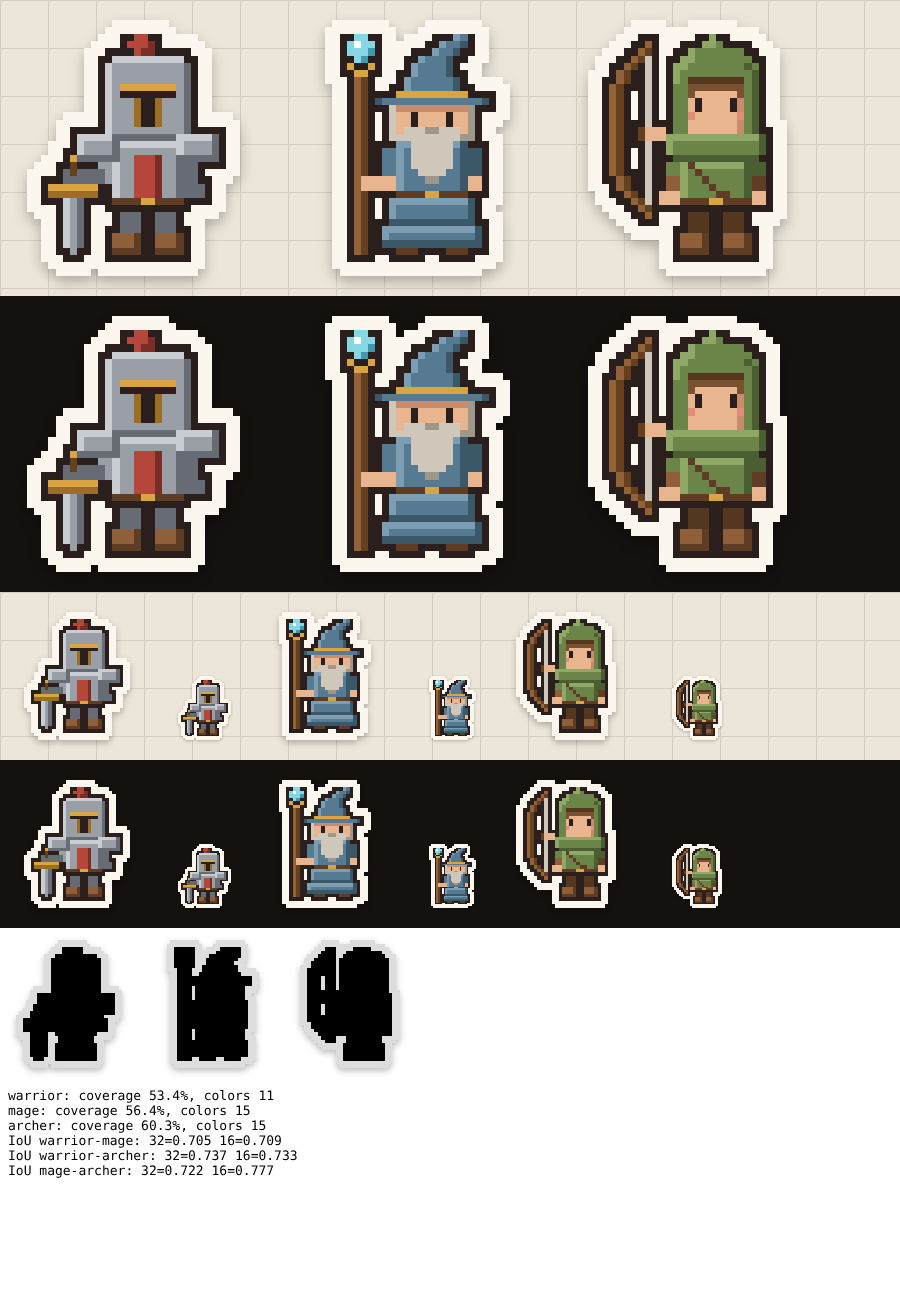
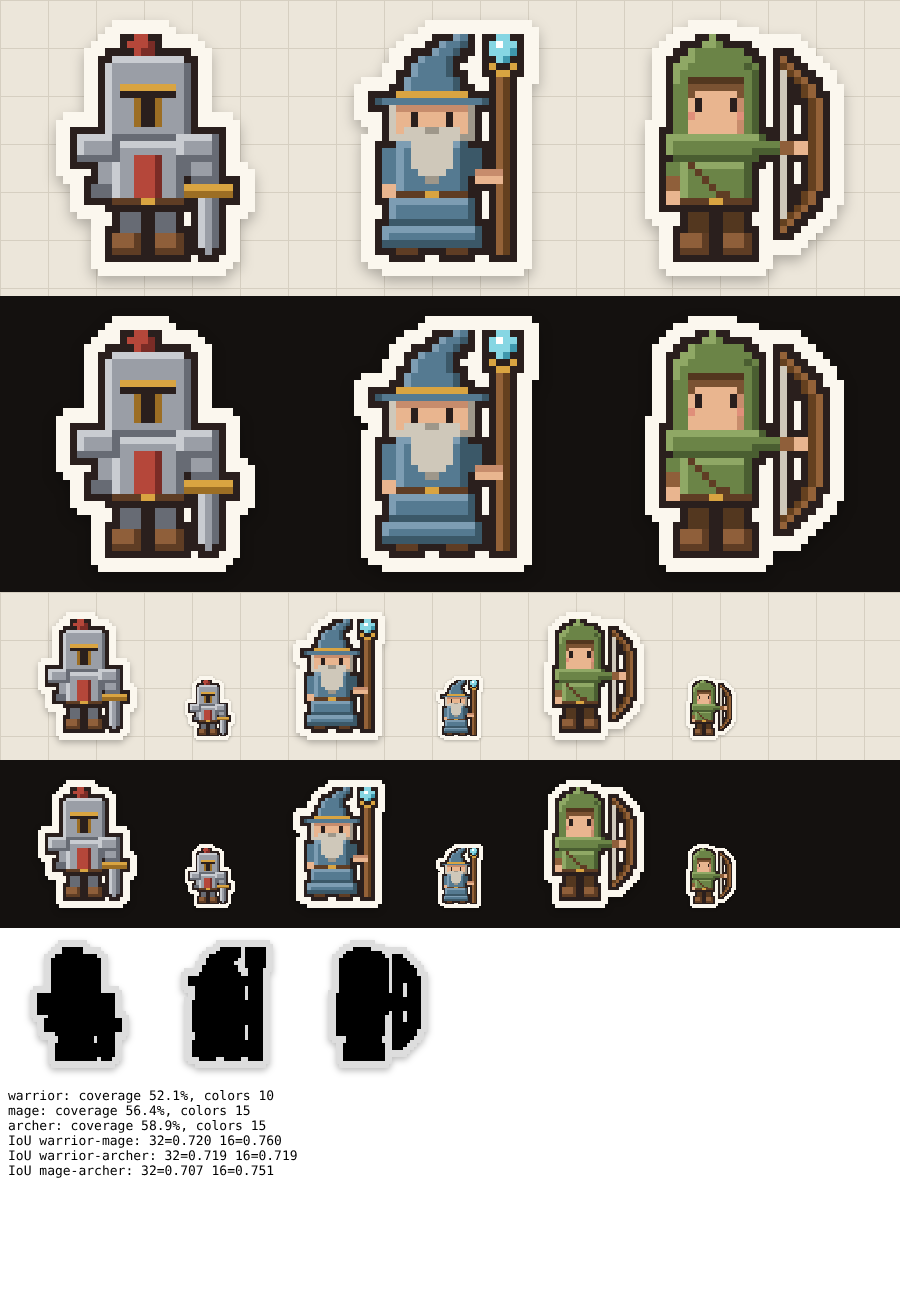
docs(plans): sticker prototypes posed like reference (item in right hand)
Claude-Session: https://claude.ai/code/session_01KqL6SRAE6ckfnfXieFajdG

diff --git a/plans/20261017-1617-github-derived-character-avatar/phase-04-avatar-sprite-system.md b/plans/20261017-1617-github-derived-character-avatar/phase-04-avatar-sprite-system.md
@@ -18,10 +18,10 @@
 - `gridToPathData(grid, char)` is size-agnostic → reuse as is.
 
 ## Requirements
-- **Art style (user-approved direction 2026-10-17, see [sticker prototypes](reports/assets/03-sticker-style-prototypes.png), [source](reports/assets/03-sticker-style-prototypes.ts.txt))**: chibi "die-cut sticker" pixel art. Big head (~40% height), dot eyes + blush, 1px near-black outline (8-neighbour, chunky), muted earthy palette with 3-tone ramps (highlight top/left, shade bottom/right), cream sticker ring 2px with rounded corners added by the composer on a padded viewBox (`-2 -2 36 36`), soft CSS drop-shadow. Original art only (reference image = style cue, not traced, not committed). Class reads: Warrior = T-visor great helm + plume, broad pauldrons, red tabard, sword point-down; Mage = bent pointed hat + wide brim, grey beard, robe to floor, crystal staff; Archer = pointed hood, capelet, strap, tall recurve bow. Prototype IoU: w-m .705/.709, w-a .737/.733, m-a .722/.777 (32/16), colors 11-15.
+- **Art style (user-approved direction 2026-10-17, see [sticker prototypes](reports/assets/03-sticker-style-prototypes.png), [source](reports/assets/03-sticker-style-prototypes.ts.txt))**: chibi "die-cut sticker" pixel art. Big head (~40% height), dot eyes + blush, 1px near-black outline (8-neighbour, chunky), muted earthy palette with 3-tone ramps (highlight top/left, shade bottom/right), cream sticker ring 2px with rounded corners added by the composer on a padded viewBox (`-2 -2 36 36`), soft CSS drop-shadow. Original art only (reference image = style cue, not traced, not committed). Pose (user ref): front-facing, held item in the hand on the **viewer's right**, close to the body; free hand at the side. Class reads: Warrior = T-visor great helm + plume, broad pauldrons, red tabard, sword point-down in right fist; Mage = bent pointed hat + wide brim, grey beard, robe to floor, crystal staff beside the robe; Archer = pointed hood, capelet, strap, recurve bow held out at arm's length. Prototype IoU: w-m .720/.760, w-a .719/.719, m-a .707/.751 (32/16), colors 10-15.
 - Sticker ring replaces the planned portrait plate: cream ring separates the dark outline from the dark theme bg (contrast measured in 06). Optional grid-paper texture behind the hero avatar (CSS gradients, no image).
 - Palette cap raised: <=16 visible colors per avatar (3-tone ramps), sticker key `#` → `--avatar-sticker`.
-- Regions below are pre-sticker; re-derive from v3 prototypes in step 2 (warrior pauldrons span x6-25, so off-hand/shield box moves to y18-29).
+- Regions below are pre-sticker; re-derive from the prototypes in step 2: main hand moves to viewer right (x21-31), shield/off-hand to viewer left (x0-9, y16-29), job motif box to top-left (x0-9, y0-12) since the mage crystal occupies top-right.
 - Canvas 32x32 (fallback 24x32 only if 00 says so). Regions (x cols, y rows):
 
 | Region | Box | Owner |

diff --git a/plans/20261017-1617-github-derived-character-avatar/reports/02-spike-results-report.md b/plans/20261017-1617-github-derived-character-avatar/reports/02-spike-results-report.md
@@ -56,6 +56,7 @@ All under candidate thresholds (0.75 / 0.80) but warrior-mage margin thin → ph
 
 ## Update: art style changed (user reference, 2026-10-17)
 User asked for a chibi die-cut sticker style. Redrawn 3 classes: [sheet](assets/03-sticker-style-prototypes.png). Sticker ring fixes the dark-theme outline problem (no portrait plate needed). After moving the warrior sword point-down (all 3 classes had a tall item on the left), IoU: w-m .705/.709, w-a .737/.733, m-a .722/.777 at 32/16, all under .75/.80. Colors 11-15 per avatar → cap 16. Phase 04 spec updated.
+Pose follow-up (user ref): held items moved to the viewer's right, close to the body, archer holds bow out at arm's length. IoU w-m .720/.760, w-a .719/.719, m-a .707/.751; still under .75/.80.
 
 ## Decisions for next phases
 - Token: `GITHUB_TOKEN` only; PAT path stays as documented fallback, not configured.
